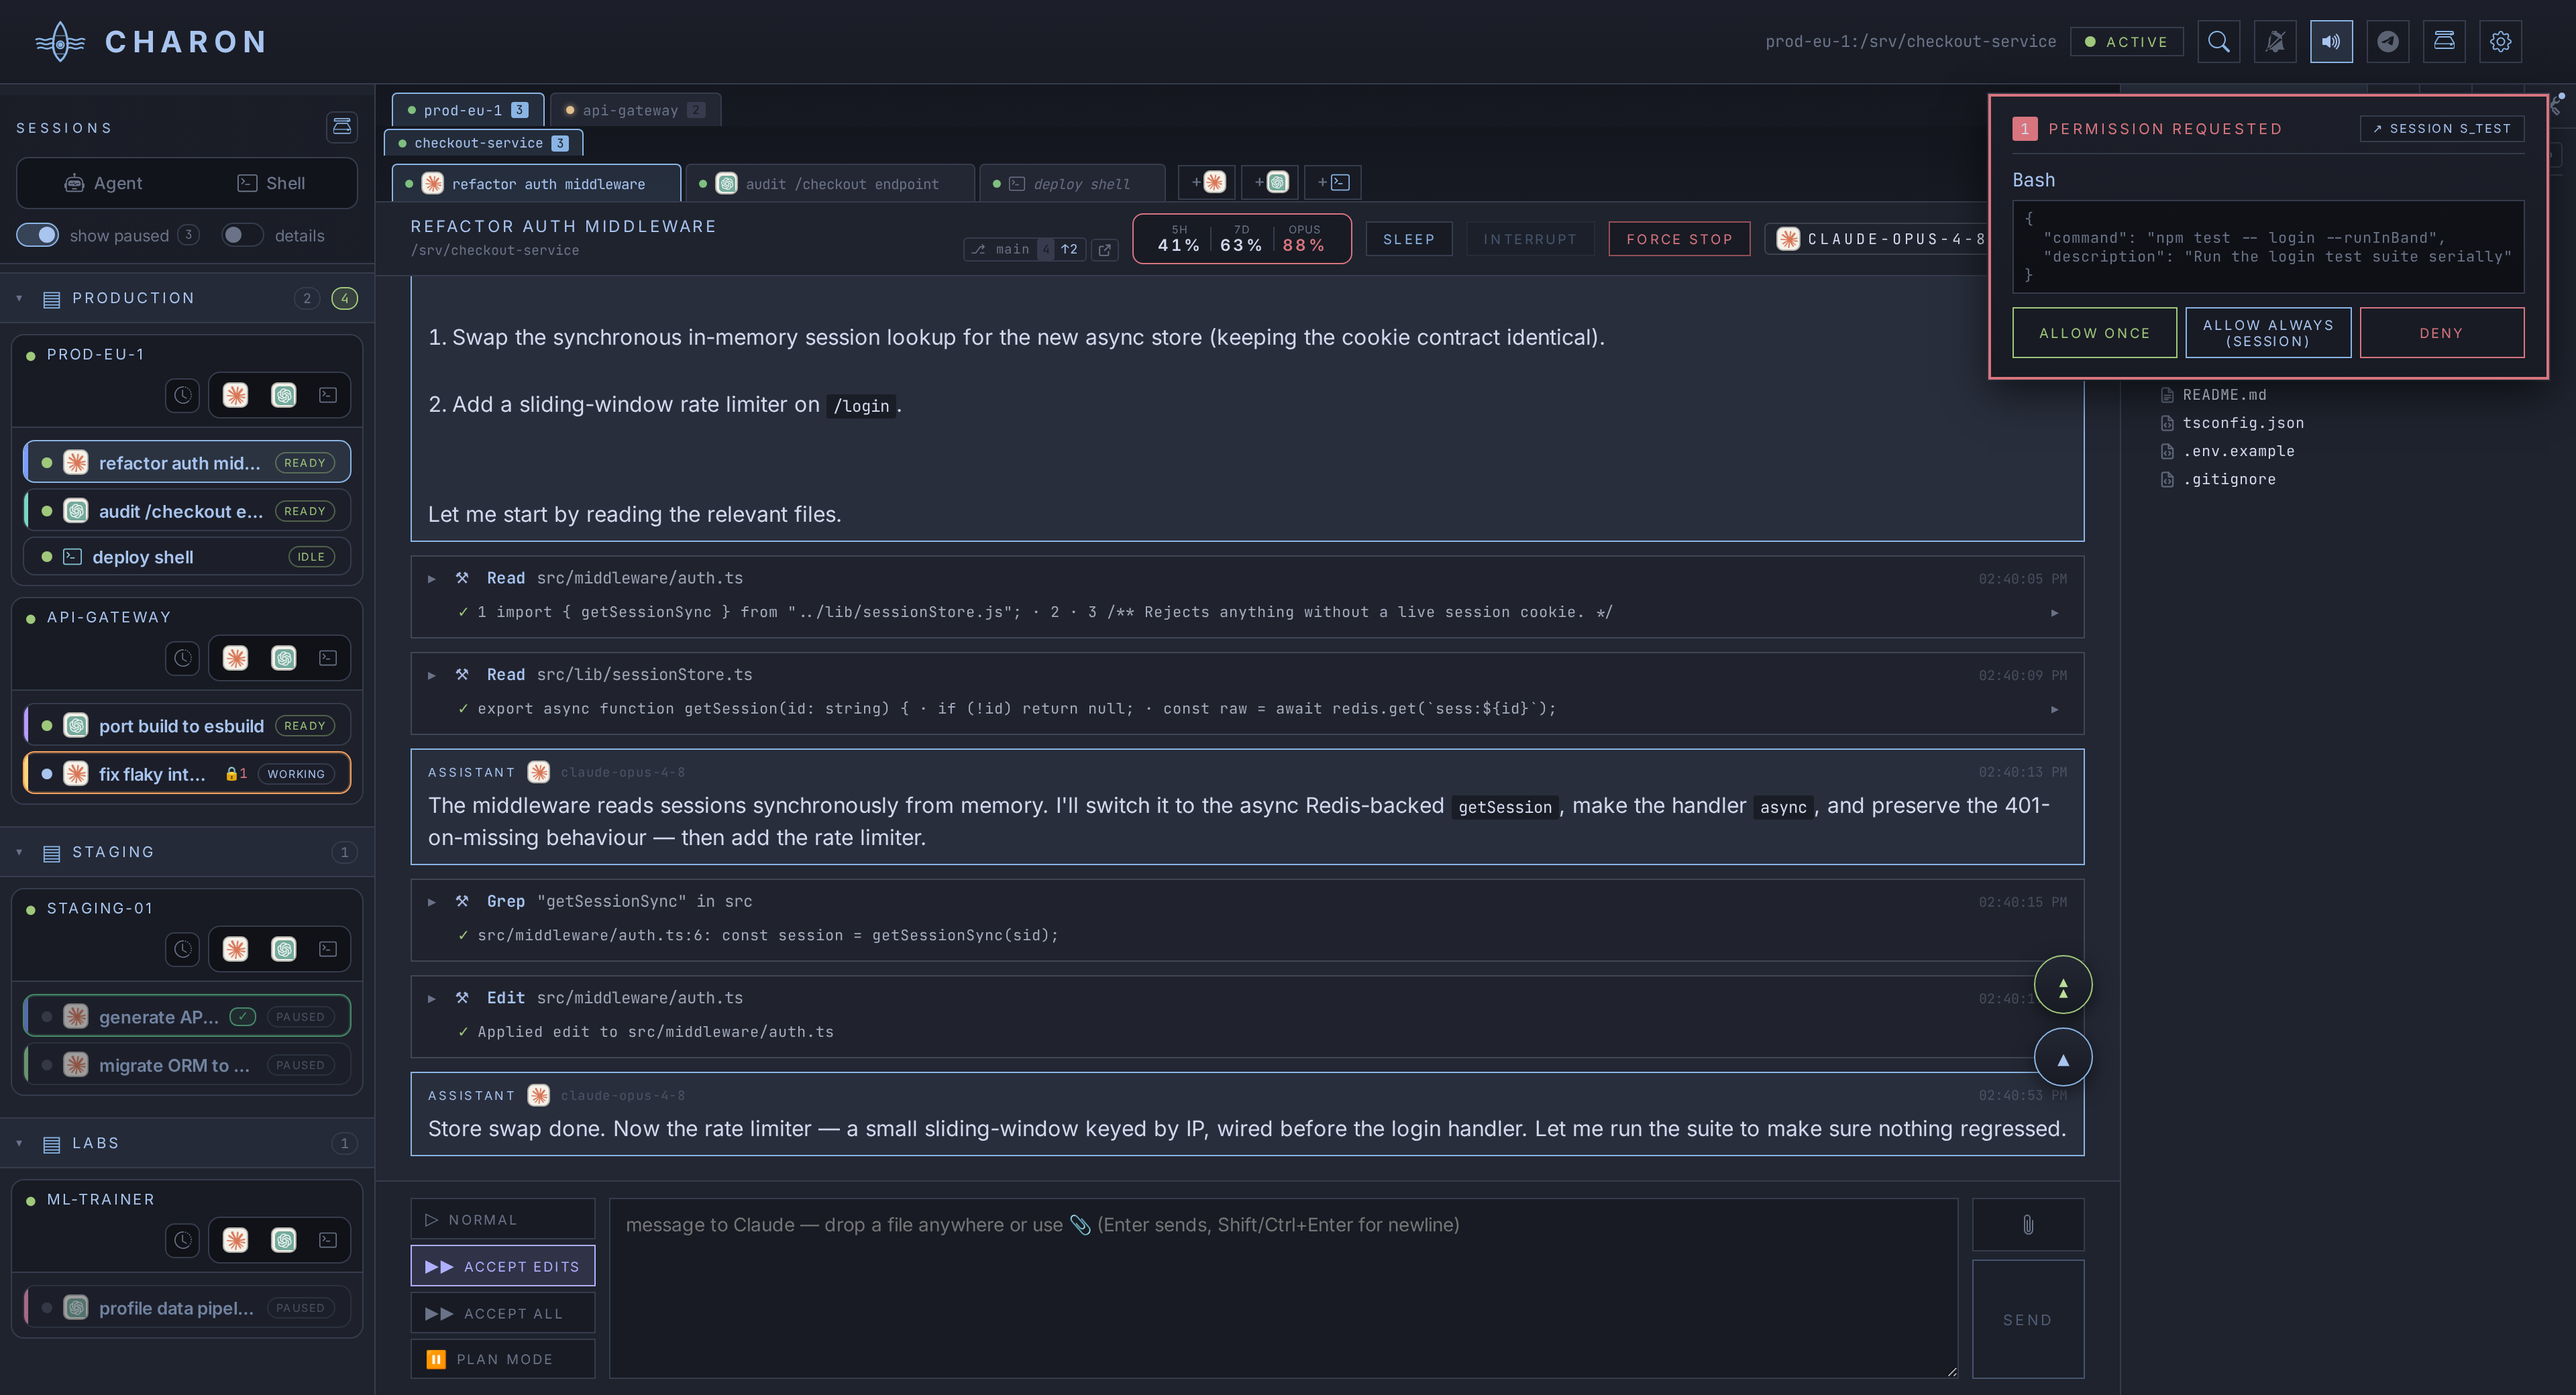
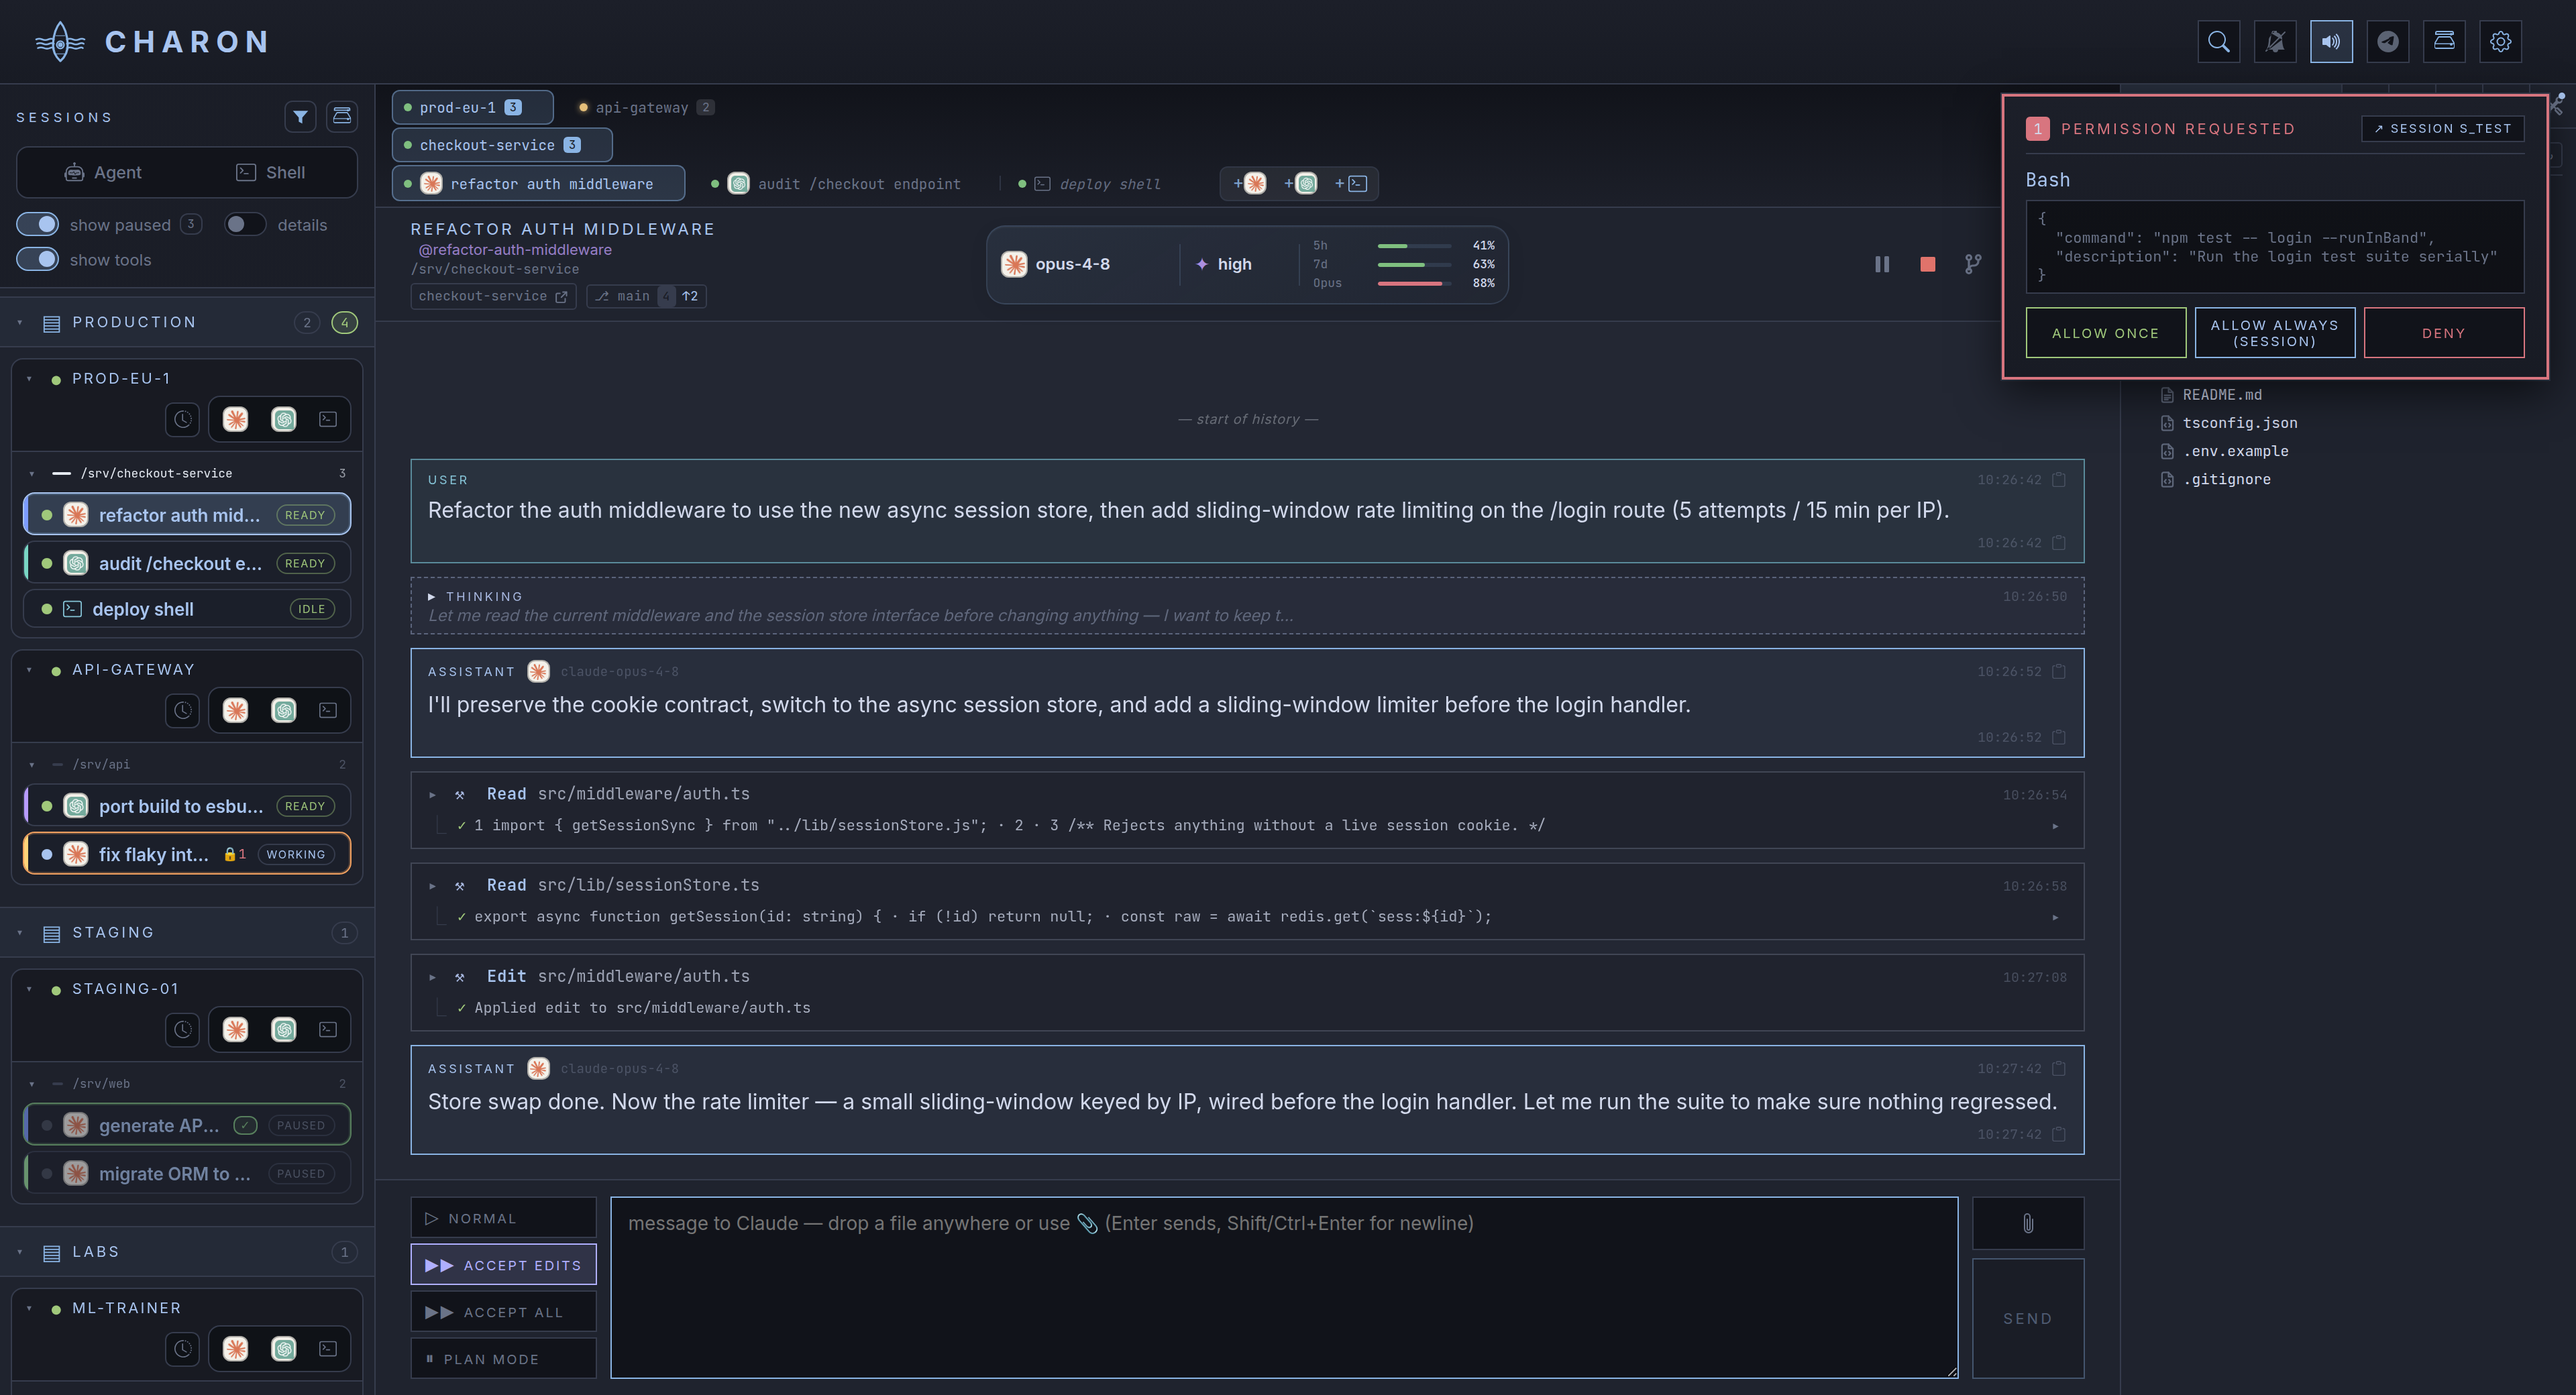
docs: refresh interface screenshots and add theme gallery

diff --git a/docs/screenshots.md b/docs/screenshots.md
@@ -1,0 +1,84 @@
+# Interface and themes
+
+These screenshots show the current Charon interface with fictitious sessions,
+accounts and servers. The file explorer, editor, Git panel and terminal use a
+real isolated agent and a disposable `checkout-service` project.
+
+Choose a theme in **Settings → General → theme**. The selection applies across
+the hub, including other open tabs and mobile devices.
+
+## Theme gallery
+
+The same Claude conversation and desktop viewport in each of the five themes.
+Click an image to inspect it at full resolution.
+
+### Nordic Tokyo
+
+The default: deep blue-grey with cool accents.
+
+![Nordic Tokyo — demo conversation and file explorer](./img/theme-nordic.png)
+
+### Daylight
+
+A light palette for bright rooms.
+
+![Daylight — the same demo conversation in a light palette](./img/theme-daylight.png)
+
+### Etonc
+
+Warm greys, coral accents and a transcript laid out like a document.
+
+![Etonc — warm palette and document-style transcript](./img/theme-etonc.png)
+
+### Cupertino
+
+Light grey window chrome, white content and fine borders.
+
+![Cupertino — light Mac-inspired interface](./img/theme-cupertino.png)
+
+### Cupertino Night
+
+The same Mac-inspired layout in a dark palette.
+
+![Cupertino Night — dark interface with blue accents](./img/theme-cupertino-night.png)
+
+## Recreate the screenshots
+
+Run from the repository root on a Linux demo host with Node 20+, Python 3.10+,
+SSH and Chromium through Playwright. Install the repository dependencies first.
+The setup script resets `/srv/checkout-service` and the dedicated `charondemo`
+user's agent state; reserve both for this demonstration.
+
+1. Use a current production build. On a separate checkout, run
+   `node node_modules/next/dist/bin/next build`. The repository's `npm run build`
+   also migrates and triggers deployment; the demo only needs the build output.
+2. Install the optional capture dependency without changing the lockfile:
+   `npm install --no-save --package-lock=false playwright`, then
+   `npx playwright install chromium`.
+3. Create and populate the dedicated database, then prepare the isolated agent:
+
+   ```sh
+   DATABASE_URL=./data/demo.db node scripts/migrate.mjs
+   node scripts/demo-seed.mjs
+   sudo bash scripts/demo-agent-setup.sh
+   ```
+
+4. Start the second hub on loopback in another terminal. It reads the local
+   `.env` for authentication; keep the same `SESSION_SECRET` when seeding.
+
+   ```sh
+   NODE_ENV=production HOST=127.0.0.1 PORT=10999 \
+     DATABASE_URL=./data/demo.db CHARON_DISABLE_AUTOCONNECT=1 \
+     node --require dotenv/config server.js
+   ```
+
+5. Run `node scripts/demo-shots.mjs`. Captures go to `docs/img/`.
+   Use `SHOTS=dashboard,theme-daylight` to capture a subset. `DEMO_DB` and
+   `DEMO_BASE` override the demo database and local URL; `DEMO_CHROMIUM` can
+   point to an existing Chromium executable. A failed capture exits nonzero.
+6. Inspect the images before committing. Stop the demo hub and isolated agent
+   when finished.
+
+Chat, runtime events and account usage use fictitious fixtures; no real
+provider account or model turn is needed. Theme selection uses the normal settings API. The script
+captures rendered UI without recolouring or rebuilding it for the images.

diff --git a/README.md b/README.md
@@ -30,7 +30,7 @@ shells all live in one daemon (`charon-agent`) per VPS, so they keep running whe
 your laptop sleeps, your network drops, or you restart the hub. Charon is just
 the control plane.
 
-![Charon desktop dashboard — sidebar of VPS with Claude and Codex sessions, a tab bar, a streaming session with an account-usage gauge, the file explorer and a permission request](./docs/img/dashboard.png)
+![Charon desktop dashboard — sidebar of VPS with Claude and Codex sessions, a tab bar, a demo conversation with model, effort and account-usage controls, the file explorer and a permission request](./docs/img/dashboard.png)
 
 ```
 ┌───────────────┐  HTTPS/SSE   ┌────────────────────────┐  SSH (1 per VPS)  ┌──────────────────────┐
@@ -46,8 +46,8 @@ the control plane.
 
 ## 1 · Coding sessions — Claude, Codex and Cursor, one UI
 
-<img src="./docs/img/claude-chat.png" alt="Claude session: streamed answer, paired tool calls and a captured diff with a revert button" width="49%"></img>
-<img src="./docs/img/codex-chat.png" alt="Codex session: the same UI driving OpenAI Codex, with sandbox modes and a unified diff" width="49%"></img>
+<img src="./docs/img/claude-chat.png" alt="Claude session: model and effort controls, paired tool calls and the live file explorer" width="49%"></img>
+<img src="./docs/img/codex-chat.png" alt="Codex session: model and effort controls, a security audit and permission modes" width="49%"></img>
 
 Each session is an independent agent running **on the VPS**, not on your
 machine — a `ClaudeSDKClient` (Claude), an OpenAI Codex thread (via the Codex
@@ -333,13 +333,22 @@ sidebar and the tool panel become drawers, the tab bar folds away):
 
 ## Themes
 
-**Settings → General → theme.** Three ship today:
+**Settings → General → theme.** Five ship today:
 
 | Theme | |
 | --- | --- |
 | **Nordic Tokyo** | the default — deep blue-grey, low glare |
 | **Daylight** | light, for a bright room or a sunlit screen |
 | **Etonc** | warm greys and coral, and the transcript reads as a document |
+| **Cupertino** | light, with grey chrome, white content and fine borders |
+| **Cupertino Night** | the same Mac-inspired layout in a dark palette |
+
+<img src="./docs/img/theme-daylight.png" alt="Daylight theme: the current demo session in a light palette" width="49%"></img>
+<img src="./docs/img/theme-etonc.png" alt="Etonc theme: warm greys, coral accents and a document-style transcript" width="49%"></img>
+<img src="./docs/img/theme-cupertino.png" alt="Cupertino theme: light grey chrome and white content" width="49%"></img>
+<img src="./docs/img/theme-cupertino-night.png" alt="Cupertino Night theme: dark chrome with blue accents" width="49%"></img>
+
+[View all five themes at full size and the screenshot capture guide](./docs/screenshots.md).
 
 The theme is **hub-wide**: pick it once and every device follows, live — the
 change reaches other open tabs and your phone over the same event stream, with
